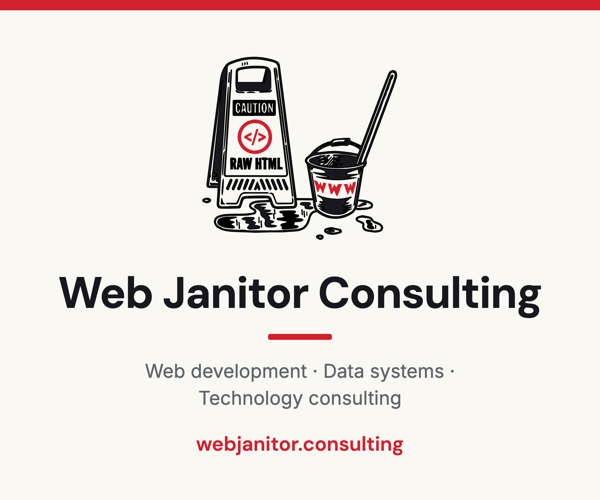
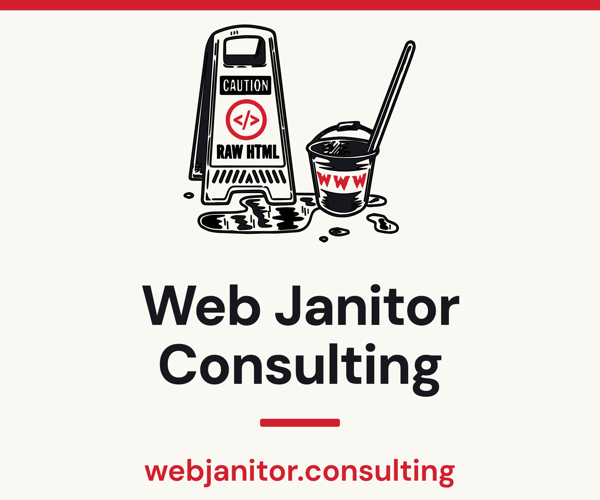
Sponsor tile: rework for 300px display size
The 600x500 tile renders at 300px wide on Tampa Monitor, making it an
@2x asset — the tagline was ~9.5px effective and illegible. Drop the
tagline and scale up the illustration, wordmark, and URL so the card
reads at display size.

Changed region(s): [[0.09, 0.54, 0.9, 0.99], [0.3, 0.03, 0.69, 0.48]]

diff --git a/sponsor-tile.html b/sponsor-tile.html
@@ -50,8 +50,8 @@
         }
 
         .tile-illustration {
-            width: 210px;
-            margin: 0 auto 26px;
+            width: 250px;
+            margin: 0 auto 30px;
         }
 
         .tile-illustration svg {
@@ -74,34 +74,25 @@
         h1 {
             font-family: "DM Sans", sans-serif;
             font-weight: 700;
-            font-size: 44px;
+            font-size: 56px;
             line-height: 1.05;
             letter-spacing: -0.02em;
         }
 
         .kicker {
-            width: 64px;
-            height: 6px;
+            width: 80px;
+            height: 8px;
             border-radius: 2px;
             background: #d2202e;
-            margin: 18px auto;
-        }
-
-        .nb { white-space: nowrap; }
-
-        .tagline {
-            font-family: "Inter", sans-serif;
-            font-size: 19px;
-            line-height: 1.45;
-            color: #5f646c;
+            margin: 24px auto;
         }
 
         .url {
             font-family: "DM Sans", sans-serif;
             font-weight: 600;
-            font-size: 20px;
+            font-size: 30px;
             color: #d2202e;
-            margin-top: 18px;
+            margin-top: 0;
         }
     </style>
 </head>
@@ -113,7 +104,6 @@
         </div>
         <h1>Web Janitor Consulting</h1>
         <div class="kicker"></div>
-        <p class="tagline"><span class="nb">Web development</span> · <span class="nb">Data systems</span> · <span class="nb">Technology consulting</span></p>
         <p class="url">webjanitor.consulting</p>
     </div>
 </body>
